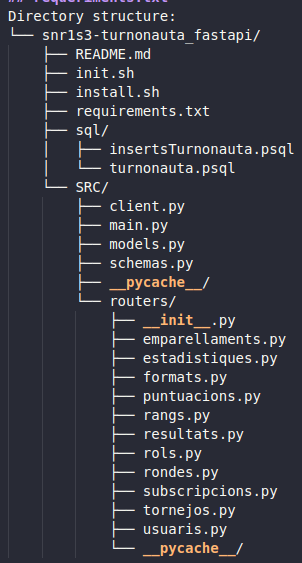
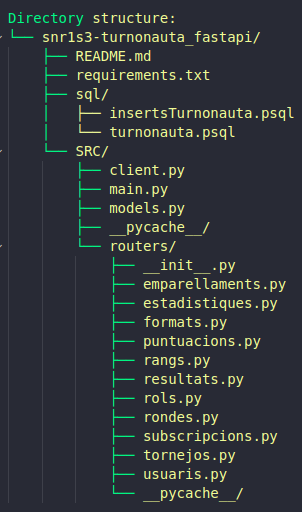
feat: update README with new API startup instructions and remove deprecated scripts

Changed region(s): [[0.0298, 0.0, 0.9536, 1.0], [0.8642, 0.1875, 0.9834, 0.2812], [0.8642, 0.8438, 0.9238, 0.9062]]

diff --git a/README.md b/README.md
@@ -7,6 +7,18 @@
 - [WEB](https://github.com/EdwindanielTIC/web_TurnoNauta.git)
 
 
+## Iniciar l'APIREST
+```bash
+source ~/venv/bin/activate
+
+sudo ~/venv/bin/uvicorn TurnoNauta_FastAPI.SRC.main:app \
+    --reload \
+    --host 0.0.0.0 \
+    --port 8443 \
+    --ssl-keyfile  RUTA A LA CLAU PRIVADA
+     \
+    --ssl-certfile RUTA AL CERTIFICAT
+```
 ## Estructura de Directoris
 ![Estructura de Directoris](./img/image.png)
 
